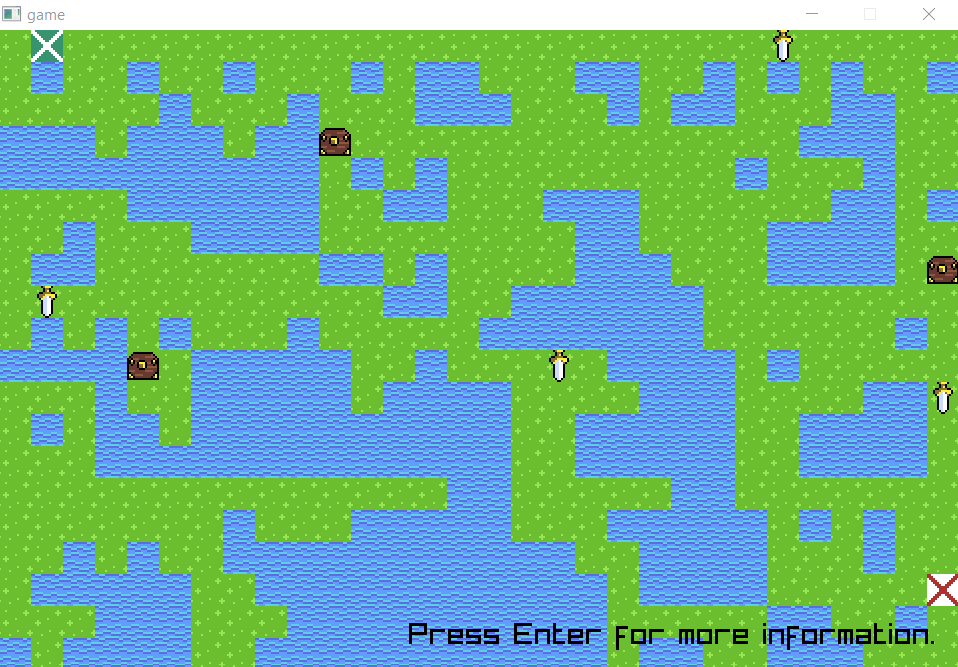
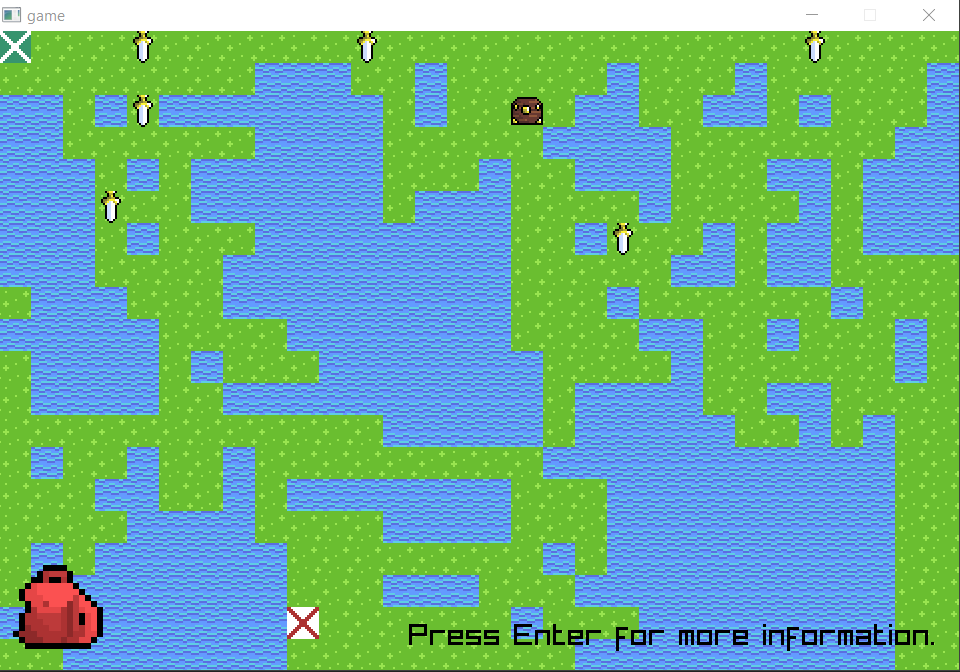
changed how items to draw get selected and changed screenshot for wiki

diff --git a/src/map.cpp b/src/map.cpp
@@ -168,6 +168,47 @@ void map::randomItems() {
                 // wenn grass dann 5% chance dass ein item spawned
                 if (rand() % 20 <= 1 && mapData.layerPath.at(itemTick-1) == this->tile_grass && mapData.layerCheckpoints.at(itemTick-1) != this->tile_start && mapData.layerCheckpoints.at(itemTick-1) != this->tile_finish && this->itemCurrent < this->itemsMax)
                 {
+                    int number = rand() % 10;
+
+                    switch (number)
+                    {
+                        // dagger
+                        case 1:
+                            mapData.layerItems.push_back(this->tile_dagger);
+                            this->itemCurrent++;
+                            break;
+                        // chest
+                        case 2:
+                            mapData.layerItems.push_back(this->tile_chest);
+                            this->itemCurrent++;
+                            break;
+                        // potion
+                        case 3:
+                            mapData.layerItems.push_back(this->tile_potion);
+                            this->itemCurrent++;
+                            break;
+                        // golden apple
+                        case 4:
+                            mapData.layerItems.push_back(this->tile_apple);
+                            this->itemCurrent++;
+                            break;
+                        // crystal
+                        case 5:
+                            mapData.layerItems.push_back(this->tile_crystal);
+                            this->itemCurrent++;
+                            break;
+                        // ring
+                        case 6:
+                            mapData.layerItems.push_back(this->tile_ring);
+                            this->itemCurrent++;
+                            break;
+
+                        default:
+                            mapData.layerItems.push_back(this->tile_empty);
+                            break;
+
+                    }
+                    /*
                     // 20% chance auf chest
                     // 0 - 2
                     if (rand() % 10 <= 1)
@@ -186,6 +227,7 @@ void map::randomItems() {
                     {
                         mapData.layerItems.push_back(this->tile_empty);
                     }
+                     */
 
                 }
                 // sonst empty
